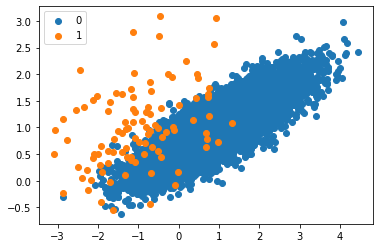
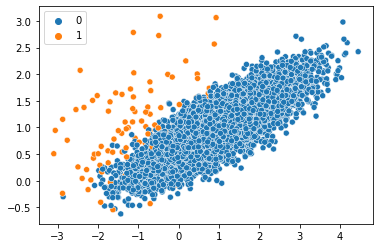
Replace for loops in broomResample scatter example

diff --git a/_posts/2021-10-10-broomlib-python-package.md b/_posts/2021-10-10-broomlib-python-package.md
@@ -78,24 +78,17 @@ from broomlib import broomResample
 from collections import Counter
 from sklearn.datasets import make_classification
 import matplotlib.pyplot as plt
-import numpy as np
-from numpy import where
+import seaborn as sns
 
-X, y = make_classification(n_samples=10000, n_features=2, n_redundant=0,
-                           n_clusters_per_class=1, weights=[0.99], flip_y=0, random_state=1)
-counter = Counter(y)
-print(counter)
-for label, _ in counter.items():
-    row_ix = np.where(y == label)[0]
-    plt.scatter(X[row_ix, 0], X[row_ix, 1], label=str(label))
-plt.legend()
+X, y = make_classification(n_samples=10000, n_features=2, n_redundant=0, n_clusters_per_class=1, weights=[0.99], flip_y=0, random_state=1)
+
+print('Original dataset:', Counter(y))
+sns.scatterplot(X.T[0], X.T[1], hue=y)
 plt.show()
+
 X_resampled, y_resampled = broomResample(X,y)
-print('Resampled dataset samples per class', Counter(y_resampled))
-for label,_ in counter.items():
-    row_ix = np.where(y_resampled == label)[0]
-    plt.scatter(X_resampled[row_ix, 0], X_resampled[row_ix, 1], label=str(label))
-plt.legend()
+print('Resampled dataset samples per class:', Counter(y_resampled))
+sns.scatterplot(X_resampled.T[0], X_resampled.T[1], hue=y_resampled)
 plt.show()
 ```
 
